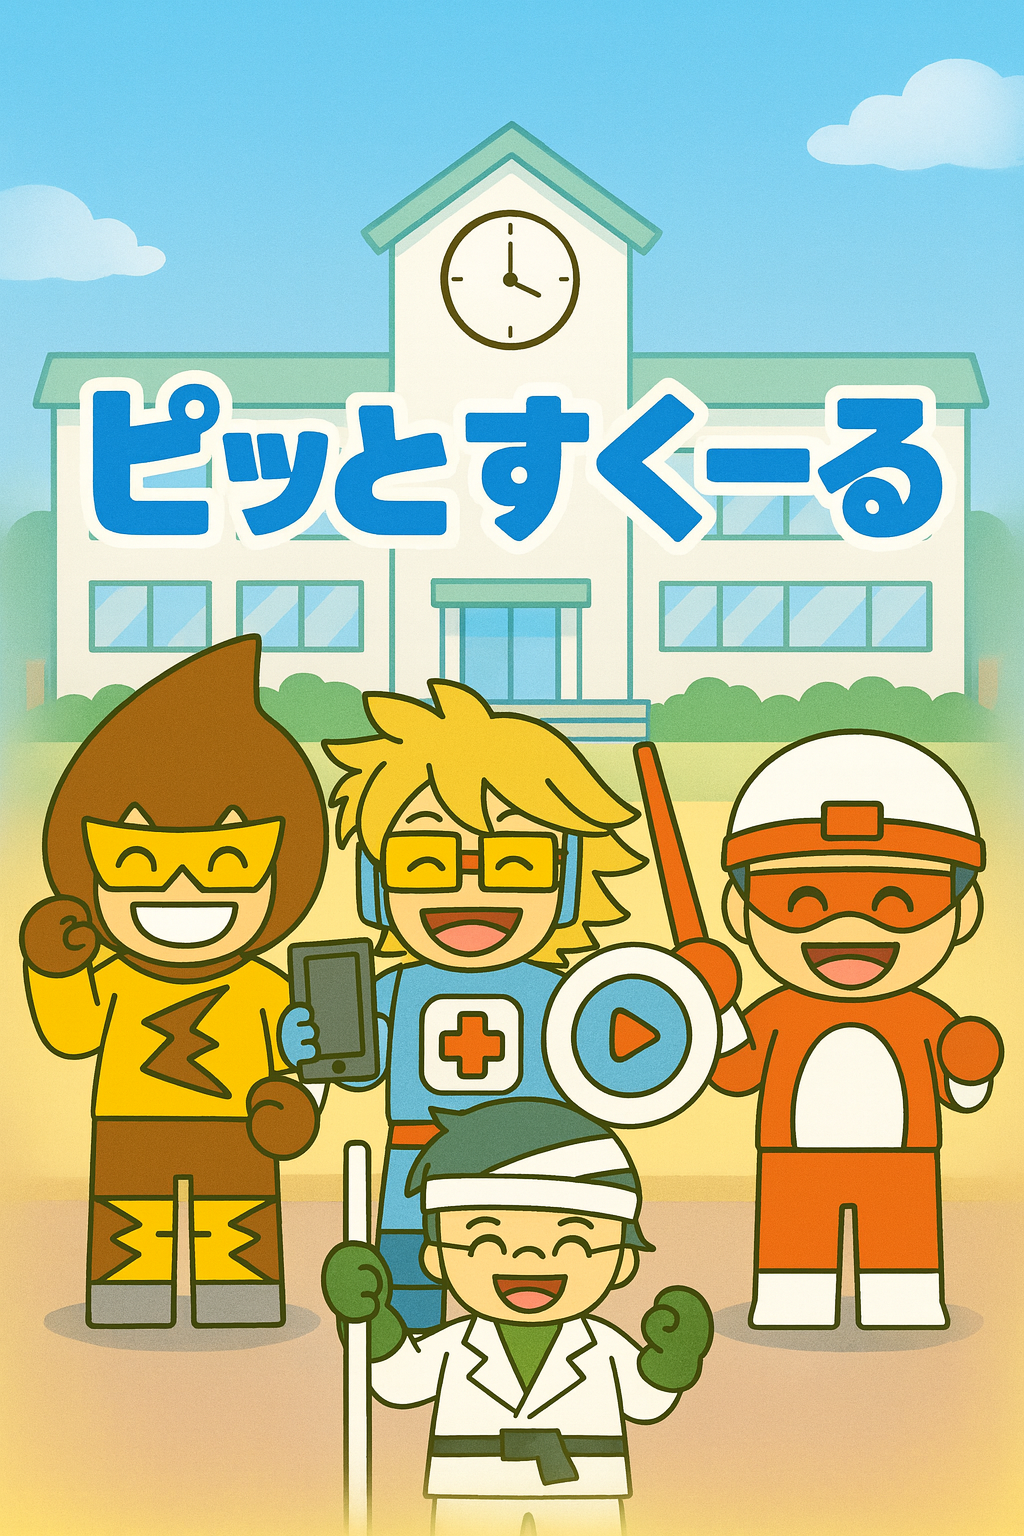
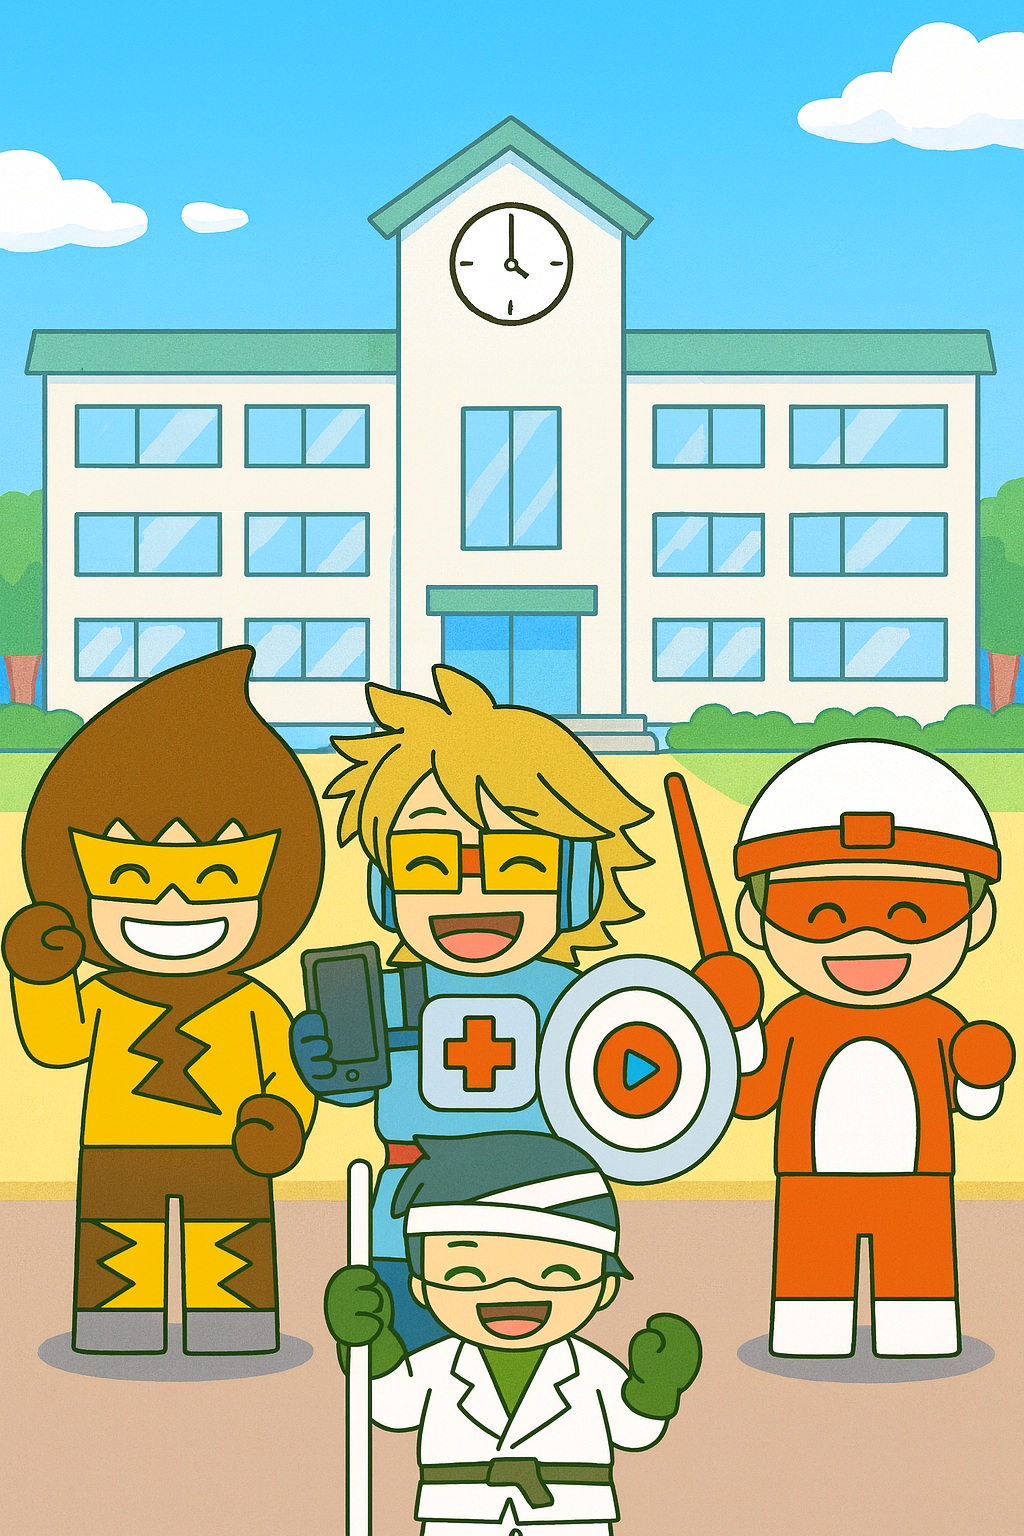
ホームページタイトル改善: 濃い水色のレスポンシブテキストを追加、clamp()で自動サイズ調整

diff --git a/src/app/page.tsx b/src/app/page.tsx
@@ -101,6 +101,21 @@ export default function Home() {
       {/* Overlay (optional, readability for text) */}
       <div className="absolute inset-0 bg-gradient-to-t from-white/60 via-transparent to-transparent" style={{ zIndex: 1 }} />
       
+      {/* タイトルテキスト */}
+      <div className="absolute top-1/3 left-1/2 transform -translate-x-1/2 -translate-y-1/2 z-20 text-center w-full px-4">
+        <h1 className="font-black drop-shadow-2xl" style={{ 
+          fontFamily: "'Rounded Mplus 1c', 'M PLUS Rounded 1c', 'Hiragino Maru Gothic ProN', 'メイリオ', sans-serif", 
+          color: '#0284c7',
+          textShadow: '0 6px 30px rgba(0,0,0,0.8), 0 3px 15px rgba(0,0,0,0.6), 0 0 50px rgba(2, 132, 199, 0.8), 0 0 80px rgba(2, 132, 199, 0.4)',
+          fontWeight: 900,
+          WebkitTextStroke: '0.5px rgba(255,255,255,0.8)',
+          letterSpacing: '0.08em',
+          transform: 'scaleY(1.1)',
+          fontSize: 'clamp(2.5rem, 12vw, 8rem)'
+        }}>
+          ピッとすくーる
+        </h1>
+      </div>
 
       {/* 右上のメニュー */}
       <div className="absolute top-4 right-4 flex items-center space-x-4 z-20">
